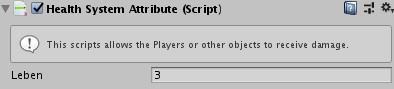
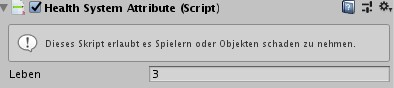
Added getting starded guide (german). Translated more scripts.

diff --git a/Assets/_INTERNAL_/Scripts/Editor/UI/UIScriptInspector.cs b/Assets/_INTERNAL_/Scripts/Editor/UI/UIScriptInspector.cs
@@ -1,6 +1,7 @@
 using UnityEngine;
 using UnityEditor;
 using System.Collections;
+using UnityEditor.Globalization;
 using static UnityEngine.Globalization.Translation;
 
 [CustomEditor(typeof(UIScript))]
@@ -15,18 +16,22 @@ public class UIScriptInspector : InspectorBase
 
 	public override void OnInspectorGUI()
 	{
+		var gameTypeProp = serializedObject.FindProperty(nameof(UIScript.gameType));
+		var numberOfPlayersProp = serializedObject.FindProperty(nameof(UIScript.numberOfPlayers));
+		var scoreToWinProp = serializedObject.FindProperty(nameof(UIScript.scoreToWin));
+
 		GUILayout.Space(10);
 		EditorGUILayout.HelpBox(explanation, MessageType.Info);
 
-		nOfPlayers = serializedObject.FindProperty("numberOfPlayers").intValue;
-		gameType = serializedObject.FindProperty("gameType").intValue;
+		nOfPlayers = numberOfPlayersProp.intValue;
+		gameType = gameTypeProp.intValue;
 
 		nOfPlayers = EditorGUILayout.Popup(_("Number of players"), nOfPlayers, readablePlayerEnum);
 
 		gameType = EditorGUILayout.Popup(_("Game type"), gameType, readableGameTypesEnum);
 		if(gameType == 0) //score game
 		{
-			EditorGUILayout.PropertyField(serializedObject.FindProperty("scoreToWin"));
+			EditorTranslation.PropertyField(scoreToWinProp);
 		}
 
 		if(gameType == 1) //life
@@ -35,8 +40,8 @@ public class UIScriptInspector : InspectorBase
 		}
 
 		//write all the properties back
-		serializedObject.FindProperty("gameType").intValue = gameType;
-		serializedObject.FindProperty("numberOfPlayers").intValue = nOfPlayers;
+		gameTypeProp.intValue = gameType;
+		numberOfPlayersProp.intValue = nOfPlayers;
 
 		if(GUI.changed)
 		{

diff --git a/Assets/_INTERNAL_/Scripts/Editor/DefaultComponents/Rigidbody2DInspector.cs b/Assets/_INTERNAL_/Scripts/Editor/DefaultComponents/Rigidbody2DInspector.cs
@@ -20,7 +20,7 @@ public class Rigidbody2DInspector : Editor
 		//EditorGUILayout.PropertyField(serializedObject.FindProperty("m_BodyType"));
 		//EditorGUILayout.LabelField("Physical Properties", EditorStyles.boldLabel);
 
-		EditorGUILayout.PropertyField(serializedObject.FindProperty("m_Mass"));
+		EditorGUILayout.PropertyField(serializedObject.FindProperty("m_Mass"), new GUIContent(_("Mass")));
 		EditorGUILayout.PropertyField(serializedObject.FindProperty("m_LinearDrag"), new GUIContent(_("Friction")));
 		EditorGUILayout.PropertyField(serializedObject.FindProperty("m_AngularDrag"), new GUIContent(_("Angular Friction")));
 		EditorGUILayout.PropertyField(serializedObject.FindProperty("m_GravityScale"), new GUIContent(_("Gravity")));

diff --git a/Assets/Scripts/Movement/CameraFollow.cs b/Assets/Scripts/Movement/CameraFollow.cs
@@ -4,7 +4,6 @@ using System.Collections;
 [AddComponentMenu("Playground/Movement/Camera Follow")]
 public class CameraFollow : MonoBehaviour
 {
-	[Header("Object to follow")]
 	// This is the object that the camera will follow
 	public Transform target;
 

diff --git a/docs/de/introduction.md b/docs/de/introduction.md
@@ -1,0 +1,286 @@
+# Einführung
+
+![Banner](../_images/introduction/banner.png)
+
+## Willkommen
+
+Egal, ob du ein aufstrebender Entwickler oder ein Mentoren/Lehrer für Spieleentwicklung bist: Willkommen bei Unity!
+
+**Unity Playground** ist ein Framework zum Erstellen von 2D-Spielen auf Physikbasis. Es ist perfekt, um Anfänger Spielentwicklung nahezubringen ohne zu programmieren. Es kann auch verwendet werden, um Game-Design oder Level-Design vorzustellen.
+
+Unity Playground macht Code überflüssig, da es eine Reihe von Komponenten für eine Aufgabe bietet, die einfach zu verwenden und mischen sind. Indem du sie miteinander kombinierst, kannst du physikbasierte 2D-Spiele erstellen, die mehrere Spielgenres umfassen.
+
+![Scripts](../_images/introduction/script-icons.png)
+_Die Icons einiger Skripte_
+
+Viel Spaß mit Unity-Playground!
+
+## Erste Schritte
+
+Unity Playground soll sehr einfach um rein zu kommen und du kannst dich in weniger als 30 Minuten mit den Grundlagen vertraut machen. Du musst nur die Projektstruktur (siehe [Projektstruktur](#projekt-struktur)) und die Konzepte verstehen, die der Playground implementiert sind ([Allgemeine Konzepte](#allgemeine-konzepte)). Dann solltest du wahrscheinlich einen Blick auf die Skripte werfen, beginnend mit denen, die in der Kategorie [Bewegung](de/components/movement.md) gruppiert sind.
+
+Wenn du weitere Informationen zu einem spezifischen Skript brauchst, gehe zu [Alle Skripts](de/components.md).
+
+### Voraussetzungen
+
+* [Unity](https://unity.com/) 2017.4 oder neuer
+* [siehe offizielle Systemanforderungen](https://unity3d.com/unity/system-requirements)
+
+### Unity installieren
+
+> Wenn du dir unsicher beim einrichten bist, lass dir von jemanden helfen der mindestens Englisch versteht und ein Grundverständnis von Computern hat.
+
+1. [Unity Hub](https://store.unity.com/download) herunterladen und installieren
+2. Unity 2017.4 oder neuer installieren (im Unity Hub) _Am besten die neuste_
+
+### Unity Playground installieren
+
+Da wir einen spezielle Version des **Unity Playground**s anbieten können wir diese nicht aus dem, in Unity eingebauten, "Asset Store" installieren.
+
+1. Gehe auf die [Github Seite von NeosIT's Unity Playground](https://github.com/NeosIT/UnityPlayground/) und lade das Projekt als ZIP herunter.
+![Github ZIP](../../../_images/getting-started/github-download.jpg)
+2. Diese .zip-Datei dann an einem beliebigen Ort entpacken (bspw. auf dem Desktop)
+3. Jetzt diesen Ordner mit dem Unity Hub öffnen _Add Button drücken_
+
+!> Falls eine Warnung bezüglich einer Unterschiedlichen Unity Version kommt, kann diese ignoriert werden, solange man eine größere Version hat.
+
+Das Ergebnis sollte ähnlich wie dieses aussehen:
+
+![Ergebnis](../../../_images/getting-started/result.jpg)
+
+### Grundlagen
+
+Bevor du Unity Playground verwendest, sollten du dich bereits mit den Kernkonzepten von Unity vertraut gemacht haben. Eine sehr gute Ressource sind die interaktiven Lernprogramme (Englisch), die auf der Seite _Learn_, im Unity Hub finden kannst. Alternativ können Sie auch den Abschnitt Benutzeroberfläche und Grundlagen in den offiziellen Tutorials durchgehen.
+
+![Unity Hub Learn](../_images/introduction/unity-hub-learn.jpg)
+
+## Mach dein erstes Spiel
+
+Ein Spiel mit Unity Playground zu machen ist super einfach! Lass uns ein sehr einfaches Action-Game machen, in dem ein Raumschiff herumfliegt und versucht, einigen Asteroiden auszuweichen.
+
+### 1. Erstellen des Spielers
+
+Ziehe zunächst ein Raumschiffbild aus dem Ordner `/Images/Spaceships` direkt in das Fenster `Hierarchie`. Da es als `Sprite` importiert wurde, wird Unity ein `GameObject` für Sie erstellen. Dies wird der Spieler sein. Nennen wir das Objekt also _Raumschiff_ und kennzeichnen dieses GameObject oben im `Inspektor`-Fenster kennzeichne es als `Spieler`. Verwende dazu das Dropdown-Menü _Tag_.
+
+![Raumschiff Inspektor](../_images/de/introduction/inspector-ship.jpg)
+
+Lass' uns als nächstes die Schiffsbewegung machen. Wir benötigen zwei Komponenten: [Move](de/components/movement.md#move), um die Interaktivität zu gewährleisten, und einen `Rigidbody2D`, um sicherzustellen, dass das Schiff den Gesetzen der Physik folgt. Ziehe ein [Move](de/components/movement.md#move)-Skript aus dem Ordner `/Scripts/Movement` in den Inspektor des Schiffes.
+
+Wenn das Ziehen ein Problem darstellt, kannst du auch das Dropdown-Menü "Komponente hinzufügen" direkt am unteren Rand des Inspektor-Fensters verwenden und dann [Move](de/components/movement.md#move) eingeben. Das Skript sollte als erstes Ergebnis angezeigt werden.
+
+![Raumschiff Inspektor](../_images/de/introduction/inspector-add-component.jpg)
+
+Du wirst feststellen, dass beim Hinzufügen des [Move](de/components/movement.md#move)-Skripts auch eine `Rigidbody2D`-Komponente hinzugefügt wird. Dies liegt daran, dass Move den `Rigidbody2D` benötigt, um zu funktionieren.
+
+> **Szenen Gizmos**
+>
+> Es kann vorkommen, dass die Symbole für das Playground-Skript sehr groß sind und deine Grafiken verdecken.
+> ![Gizmo Size](../_images/introduction/gizmo-size.png)
+>
+> In diesem Fall kannst du ihre Größe mithilfe der Dropdown "Gizmos" in der Szenenansicht reduzieren. Ziehe den Slider 3D-Symbole nach links, bis die Symbole die richtige Größe haben.
+>
+> ![Scene Gizmos](../_images/de/introduction/scene-gizmos.jpg)
+
+### 2. Anpassen der Physik
+
+Jetzt müssen wir die physikalischen Werte unseres Schiffes einstellen. Bei der `RigidBody2D`-Komponente möchten wir die `Schwerkraft` auf `0` ändern, damit das Schiff nicht herunterfällt. Du kannst auch die bevorzugte Steuerungsmethode (Pfeile oder WASD) auswählen und `Drehung berücksichtigen` aktivieren (wenn das für deine Grafiken sinnvoll ist) und dann die `Richtung` auswählen. Drücke Sie jetzt oben im Editor auf Play (:arrow_forward:), um das Spiel zu testen.
+
+Du wirst wahrscheinlich bemerken, dass das Schiff viel driftet, was die Kontrolle erschwert. Setze die `Reibung` am `Rigidbody2D` auf 10. Wenn du jetzt spielst, wirst du feststellen, dass das Driftverhalten weg ist, aber das Objekt ist auch langsamer, viel langsamer. Dies liegt daran, dass der Kraft, die sich bewegt hat, nun die Reibung entgegenwirkt.
+
+Daher müssen wir auch die Eigenschaft `Geschwindigkeit` in der [Move](de/components/movement.md#move)-Komponente anpassen. Stell' es auf `8` ein und drücke erneut die Play-Taste. Du wirst sehen, dass das Schiff jetzt viel einfacher zu kontrollieren ist. Wir haben gerade unseren ersten Gameplay-Tweak gemacht! Herzlichen Glückwunsch, du bist nun ein Game-Designer!
+
+> **Play-Modus**
+>
+> Wenn du im "Play-Modus" Komponentenwerte bearbeitest, gehen Ihre Änderungen verloren, sobald das Spiel gestoppt wird. Denk' daran, Änderungen nur vorzunehmen, wenn du dich nicht im Play-Modus befinden! Du solltest Änderungen im Play-Modus nur vornehmen, wenn du temporäre Werte testen willst, bei denen du kein Problem hast sie zu verlieren.
+
+### 3. Hinzufügen von Hindernissen und Kollisionen
+
+Wir haben etwas Spielbares, aber es ist nicht wirklich ein Spiel. Fügen wir einige Hindernisse hinzu, durch die das Schiff navigieren muss, indem Sie ein Asteroiden-Sprite aus dem Ordner `/Images` ziehen. Wie zuvor wird Unity ein GameObject für uns erstellen.
+
+Wir müssen zwei Komponenten hinzufügen: `Rigidbody2D` und `PolygonCollider2D`. Der `PolygonCollider2D` bewirkt, dass dieses Objekt andere Objekte kollidieren (berühren) kann. Wir müssen diese Komponente auch zum Schiff hinzufügen.
+
+![Scene Ship Astroid](../_images/introduction/scene-ship-astroid.png)
+
+Versuche' nach dem Hinzufügen von Collidern die Play-Taste zu drücken. Du wirst bemerken, dass das Schiff den Asteroiden jetzt herumschieben kann. Vergiss nicht, die `Schwerkraft` des Asteroiden auf `0` zu setzen, da er ansonsten herunter fällt! Sie können auch die Parameter des Asteroiden ändern: `Reibung`, `Drehungsreibung` und `Masse`, damit er sich so verhält, wie du es möchtest. Stell' die Masse auf `10` ein, damit das Objekt schwerer wird und nicht wegfliegt, wenn es dein Schiff berühren. Ein so großer Asteroid muss sehr schwer sein!
+
+Machen wir diesen Asteroiden jetzt zu einer Bedrohung. Du müsst dem Asteroiden ein [ModifyHealthAttribute](de/components/attributes.md#modifyhealthattribute)-Skript hinzufügen, das sich unter `/Scripts/Attributes` finden lässt.
+
+![Astroid Modify Health](../_images/de/introduction/astroid-modify-health.jpg)
+
+Dann muss Schiff in der Lage sein, diesen Schaden zu erkennen. Dazu gibt es ein weiteres Skript namens [HealthSystemAttribute](de/components/attributes.md#healthsystemattribute) (immer noch unter `/Scripts/Attributes`), das wir zum Raumschiff hinzufügen müssen.
+
+![Schiff HealthSystemAttribute](../_images/de/components/attributes/gui-health-system-attribute.jpg)
+
+Dies gibt dem Spieler nicht nur Gesundheit, sondern ermöglicht es uns, das Start-Leben festzulegen. Mach' den Asteroiden zum Prefab und duplizieren Sie ihn (Tastenkürzel: `STRG` + `D` für Windows, `CMD` + `D` für Mac), um ein kleines Asteroidenfeld um das Schiff zu erstellen.
+
+> **Prefabs**
+>
+> Bevor du den Asteroiden duplizierst, solltest du ihn wahrscheinlich in ein Prefab umwandeln, damit du zu einem späteren Zeitpunkt alle Asteroiden auf einmal bearbeiten kannst.
+>
+> Wenn du nicht wissen, was ein Prefab ist, und mehr darüber erfahren möchtest, lese im [Handbuch](https://docs.unity3d.com/Manual/Prefabs.html) (Englisch) nach oder schau' dir ein kurzes [Video-Tutorial](https://learn.unity.com/tutorial/essential-unity-concepts) (Englisch - Alternativen lassen sich auf YouTube problemlos finden) an.
+>
+> Prefabs sind ein grundlegendes Konzept in Unity, wenn du ein großes Spiel entwickelst oder im Team arbeitest. Du kannst sie vorerst auch sein lassen und dich auf dein erstes Spiel konzentrieren. Später kannst du immer noch darauf zurückgreifen.
+
+### 4. Hinzufügen einer Benutzeroberfläche
+
+Wir haben bist jetzt kein Feedback, wenn der Spieler getroffen wird. Fügen wir also eine Benutzeroberfläche hinzu, um die Gesundheit des Players zu visualisieren. Zieh' das UserInterface-Prefab aus dem Ordner `/Prefabs` in die Szene. Wenn du dir das `Spiel`-Fenster anguckst siehst du Score und Health, welche automatisch eingeblendet werden.
+
+Wenn du das Spiel jetzt spielst, wirst du feststellen, dass das berühren eines Asteroiden einen Punkt Gesundheit abzieht! Und wenn du zu viele Treffer abkriegst, ist das Spiel vorbei!
+
+Nachdem du ein vollständiges Asteroidenfeld hast, ist es an der Zeit, erneut zu testen, ob du tatsächlich darin navigieren kannst, ohne zu viele Treffer zu abzukriegen. Das Spiel muss schwierig sein, aber nicht zu schwierig! Indem du die Asteroiden neu positionierst und das Spiel testest, arbeitest du jetzt im Grunde an der "Game-Balance" und gleichzeitig auch am Level-Design.
+
+### 5. Ein Ziel hinzufügen
+
+Worum geht es also in diesem Spiel? Nehmen wir an, wir möchten, dass das Schiff einige Sterne sammelt, ohne in die Asteroiden zu krachen. Sobald alle Sterne gesammelt sind, ist das Spiel gewonnen.
+
+Füge einen Stern aus dem Ordner `/Images` hinzu, indem du ihn in die Szene ziehst. Füge ein [Collectable](de/components/attributes.md#collectableattribute)-Skript aus dem Ordner `/Scripts/Attribute` hinzu. Dies macht den Stern zu einem Sammelobjekt und bringt dem Spieler einen Punkt ein.
+
+Aber wie erkennen wir, ob der Stern gesammelt wurde? Wir werden wieder Kollisionen verwenden. Füge ein `PolygonCollider2D` hinzu, aber dieses Mal möchten wir es zu einem Auslöser machen. Aktivieren Sie daher die Eigenschaft `Ist Auslöser`.
+
+> **Auslöser**
+>
+> Auslöser (eng. Trigger) sind eine besondere Art von Collidern. Sie machen ein Objekt immateriell, sodass es anscheinend keine anderen Objekte berühren kann. Unity erkennt jedoch, wann sich die beiden Objekte berühren, sodass du Aktionen ausführen kannst.
+>
+> Zum Beispiel sind Auslöser sehr nützlich, um festzustellen, ob ein Spieler das Ende des Levels erreicht hat. Platziere einen direkt vor dem Ausgangs- oder Endpunkt. Wenn der Player diese berührt, wird eine "Du hast gewonnen"-Nachricht angezeigt. Der Spieler sieht nichts, aber der Auslöser gibt dir (dem Entwickler) die Logik, um die Gewinnbedingung zu ermitteln.
+
+### 6. Gewinnbedingung
+
+Wenn du das Spiel jetzt spielst, wirst feststellen, dass der Stern vom Schiff eingesammelt wird. Zu diesem Zeitpunkt möchtest du den Stern möglicherweise auch zu einem Prefab machen (siehe Hinweis zu Prefabs oben) und ihn dann so oft duplizieren, wie du es für erforderlich hältst. Nehmen wir an, wir haben 5 in der Szene. Jetzt wollen wir sie so verteilen, dass einige leicht zu bekommen sind, während die weiteren schwieriger sind. Auf diese Weise schaffen wir auch eine zunehmende Schwierigkeit für unser kleines Spiel.
+
+Schließlich musst du das UI-GameObject auswählen und im UI-Skript sicherstellen, dass der `Spieltyp` auf `Punkte` gesetzt ist und der `Erforderliche Punkte` 5 ist. Wenn dies nicht mit der Anzahl der Sterne im Spiel übereinstimmt, ist es unmöglich zu gewinnen!
+
+Drück' erneut auf "Play" und prüf', ob du das Spiel gewinnen kannst. Wenn du alle 5 Sterne bekommst, solltest du eine Nachricht mit der Aufschrift _Spieler 1 gewinnt!_ Erhalten.
+
+Glückwunsch: Du hast gerade dein erstes Spiel gemacht. Sehr gut! Pass' die Einstellungen so lange an, bis du mit den Steuerelementen, dem Schwierigkeitsgrad und dem Level-Layout zufrieden sind.
+
+### Nächste Schritte
+
+Nachdem du dich jetzt mit Unity und dem Unity Playground vertraut gemacht hast, kannst du fortfahren und komplexere Spiele damit erstellen. Als ersten Schritt kannst du einen Blick auf die [allgemeinen Konzepte](#allgemeine-konzepte) von Unity Playground werfen, um sie besser zu verstehen.
+
+Denken Sie daran: Der Unity Playground soll flexibel sein. Überlege dir deine eigenen Spielgenres oder kopiere ein vorhandenes Spiel. Alles ist in erlaubt.
+
+> Hinweis
+>
+> Wenn du lernst Spiele zu entwickeln, ist es normalerweise eine gute Idee, das Gameplay alter Spiele aus den 80er Jahren (wie Asteroids, Arkanoid, Space Invaders, Frogger und viele andere) zu kopieren, weil sie sehr einfach waren. Wenn du dich verbesserst, kannst du mehr und mehr Details hinzufügen und die Interaktion verfeinern.
+
+Wenn du Inspiration benötigst, öffne den Ordner `Examples` und starte eines der Spiele. Untersuche die GameObjects und sieh dir an, wie wir diese erstellt haben. Versuch' dann etwas Ähnliches zu erstellen.
+
+## Allgemeine Konzepte
+
+In diesem Abschnitt wirst du sehr schnell einige grundlegende Konzepte von Unity Playground behandeln. Wenn du dich noch nicht mit Unity oder Unity Playground auskennst, kannst du diese Konzepte benutzen um komplexere Spiele erstellen.
+
+### Info und Warnungen
+
+Alle benutzerdefinierten Skripte in Unity Playground verfügen über ein kleines Infofeld oben, in dem die Funktionsweise des Skripts in wenigen Worten erläutert wird.
+
+![GUI Infobox](../_images/de/introduction/info-and-warning.jpg)
+
+In ähnlicher Weise haben viele Skripte mehrere Warnmeldungen (die mit dem gelben Warnschild), die angezeigt werden, wenn beim Setup etwas nicht stimmt. Halte nach diesen Ausschau, sie geben dir möglicherweise einen guten Hinweis darauf, warum ein Skript nicht funktioniert.
+
+### Kollisionen und Auslöser
+
+Fast alle Logikskripte in Unity Playground verwenden Kollisionen, um Gameplay zu erzeugen. Das bedeutet, dass Dinge passieren, wenn sich zwei Objekte mit Collidern berühren oder wenn ein Objekt mit einem Collider in ein anderes Objekt eintritt (das ebenfalls einen Collider hat, aber als Auslöser markiert ist).
+
+So kannst du zum Beispiel Schaden erleiden, der bei Kollisionen mit einem Feind entsteht, ein Level gewinnen, wenn du ein Objekt berührst, Münzen und Power-Ups einsammeln, indem du darauf zu läufts, oder eine Tür öffnen, indem du den Charakter reinläuft - vorausgesetzt, du hast den richtigen Schlüssel!
+Ebenso kannst du eine Dialogzeile auslösen, wenn dein Charakter einen Bereich vor einem anderen Charakter betritt (wie in der Roguelike-Beispielszene).
+
+Wenn etwas nicht wie gewünscht funktioniert, fragen dich: Habe ich die entsprechenden Collider hinzugefügt?
+
+### Tags
+
+Mithilfe von Tags können wir Objekte in Kategorien unterteilen, sodass Skripte nur dann Aktionen ausführen können, wenn sie die richtigen Objekte berühren. Ohne Tags gibt es keine Möglichkeit, zwischen Objekten zu unterscheiden.
+
+Wie bei Kollisionen hängen viele Skripte von dem Objekt ab, das mit einem Tag versehen werden soll. Wenn du dir nicht sicher bist und dein Skript nicht den Anforderungen entspricht, lies dir die [jeweiligen Skripte](de/components.md) durch, um zu überprüfen, ob du ein wichtiges Tag vergessen hast.
+
+### Eigene Grafiken importieren
+
+Unity Playground enthält viele tolle Sprites zum Spielen, die sich im Ordner `Images` befinden. Es steht dir jedoch frei, alle 2D-Grafiken zu verwenden, die du findest, oder deine eigenen zu erstellen!
+
+Um ein Bild auf in Playground zu verwenden, musst du es nur irgendwo in den Ordner `Assets` ziehen. Das Bild wird als Sprite importiert und kann dann verwendet werden. Durch einfaches Ziehen in die Szene oder in das Hierarchie-Fenster wird ein neues GameObject erstellt, und du kannst es dann im Spiel verwenden.
+
+Denk' daran, dass Bilder, die nicht quadratisch sind, Transparenz benötigen, um gut auszusehen. Andernfalls wird ein weißer Hintergrund angezeigt. Gute Formate, die Transparenz ermöglichen, sind `.png` oder `.gif`, während `.jpg` keine Transparenz enthält. Denk' auch daran, dass Unity keine animierten GIFs wiedergibt.
+
+## Fortgeschrittene Konzepte
+
+Bist du ein Mentor? Dieser Abschnitt ist ein Muss für Sie! Auch für fortgeschrittene Benutzer empfohlen, die den Spielplatz besser verstehen möchten.
+
+### Übersicht
+
+Auf den ersten Blick ist es möglicherweise schwer zu verstehen, wie viele Skripte sich in Playground befinden. Für diesen Fall gibt es die [Übersicht](de/components.md) über alle Skripts. Sie sind in Kategorien (Bewegung, Gameplay usw.) unterteilt.
+
+Es empfiehlt sich diese Seite dann, bei einem Workshop für Anfänger, auszudrucken. Die Seite ist nicht wirklich Drucker freundlich, da sie in Markdown geschrieben ist, damit sie einfacher zu warten und problemlos im Internet angezeigt werden kann. Mit Markdown-To-Word Tools wäre es möglich die Seite zu einem Word Dokument zu machen, anzupassen, als PDF zu exportieren und dann auszudrucken.
+
+### Herausforderungen
+
+Zusätzlich gibt es für die "Schnellen" oder die besonders begabte auch die Möglichkeit [Herausforderungen](de/components) zu erfüllen.
+
+### Projektstruktur
+
+Um das Projekt in einem Workshop zu verwenden, kannst du es entweder kostenlos von [Github](https://github.com/NeosIT/UnityPlayground) herunterladen lassen (siehe [Tutorial](#unity-playground-installieren)) oder, wenn der Internetzugang ein Problem darstellt, die Ordner "Assets" und "ProjectSettings" manuell an die Schüler verteilen.
+
+### Assets-Ordner
+
+`Images` und `Particles` Ordner enthalten grafische Elemente, die als Charaktere, Feinde oder zum Erstellen von Szenen verwendet werden können.
+
+Das Herzstück von Playground, die Skripte, befindet sich im Ordner `Scripts`, der nach Kategorien geordnet ist. Die meisten von ihnen sollten sofort funktionieren, obwohl für einige Objekte eine bestimmte Tag-Kennzeichnung erforderlich ist (weitere Informationen hierzu findest du im Abschnitt [Tags](#tags)).
+
+Es gibt auch einen Ordner mit dem Namen `Examples`, in dem du eine Handvoll kleiner Spiele findest, die bereits erstellt wurden. Du kannst sie als Lernmaterial oder als Ausgangspunkt zum Anpassen verwenden.
+
+Das Projekt enthält einen speziellen Ordner mit dem Namen `_INTERNAL_`. Wie der Name schon sagt, sollte es dieser nicht angefasst werden, es sei denn, du möchtest sich mit dem Innenleben von Playground anlegen. Es enthält Basisskripte, Schriftarten, Gizmos und andere Dinge, die den Schülern eigentlich egal sein sollten. Es muss jedoch im Projekt sein, damit Playground ordnungsgemäß funktioniert.
+
+Dieser Abschnitt befasst sich etwas tiefergehend mit einigen Teilen von Playground, um das Innenleben besser zu verstehen. Empfohlen für Mentoren, die Schüler unterstützen und Probleme in ihren Spielen beheben müssen.
+
+### Tags (intern)
+
+Tags werden von einigen Skripten verwendet, um Objekte zu filtern und zu entscheiden, wann ihre Effekte erzeugt werden sollen. Einige Skripte filtern die `OnCollisionEnter2D` oder `OnTriggerEnter2D` Events von Objekten, während andere (wie [HealthSystemAttribute](de/components/attributes.md#healthsystemattribute)) sich unterschiedlich verhalten, je nachdem, ob das Objekt als `Player` markiert ist oder nicht.
+
+Wenn du den Ordner `ProjectSettings` zu Beginn importierst, sind bereits einige zusätzliche Tags definiert. Speziell:
+
+* `Player` und `Player2` müssen in Playground verwendet werden, damit das UI, Spieler beschädigen, Punkte zu erzielen usw. funktionieren
+* Obwohl `Enemy` derzeit in keinem Skript verwendet wird, ist es hilfreich, Feinde zu definieren, auf die die Auswirkungen von Kugeln und Waffen angewendet werden sollen.
+* `Bullet` für Geschosse/Projektile.
+* `Ground` wird verwendet, um zu überprüfen, was Boden ist, wenn der Spieler springt.
+
+Mit Ausnahme der `Player` Tags kannst du in vielen Skripten definieren, nach welchem Tag gesucht werden soll. Das [Jump](de/components/movement.md#jump)-Skript will zum Beispiel wissen, was als Boden bezeichnet wird, sodass du nicht unbedingt das `Ground` Tag auswählen musst. Diese kommen nur als Empfehlung mit in diesem Projekt.
+
+Du kannst Tags in [Condition](de/components/conditions.md)-Skripten filtern, sodass nur dann etwas passiert, wenn sie mit Objekten kollidieren, die auf eine bestimmte Weise markiert sind usw. Die Tag-Liste wird automatisch aktualisiert und zeigt die gesamte Liste der Tags an, sodass keine Tippfehler möglich sind.
+
+### Benutzeroberfläche (UserInterface)
+
+Die Benutzeroberfläche ist in einem Prefab implementiert, der im `Prefabs` Ordner enthalten ist. Wenn du einfach das `UserInterface` prefab in die Szene ziehst, werden automatisch die Gesundheit und die Punktzahl für Spieler 1 angezeigt. Du kannst jedoch auch festlegen, dass das Spiel für 2 Spieler gilt. Je nach Spielmodus wird dann die Punktzahl oder die Gesundheit für beide Spieler angezeigt.
+
+> Hinweis: Der Text wird erst zu Laufzeit übersetzt.
+
+![UserInteraface](../_images/introduction/user-interface.png)
+
+Das `UserInterface` ermöglicht es auch, die Art des Spiels zwischen Score, Life und Endless zu definieren. Je nach Zustand werden die Bildschirme "Game Over" und "Du gewinnst" angezeigt:
+
+* Wenn der Spieler im Punktemodus die gewählte Punktzahl erreicht, wird der Gewonnen-Bildschirm angezeigt. Wenn zwei Spieler anwesend sind, zeigt die Benutzeroberfläche nur Punktzahlen an und die erste Person, die die Punktzahl erreicht, gewinnt.
+* Wenn der Spieler im Lebensmodus 0 Lebenspunkte erreicht, wird "Game Over" angezeigt. Bei zwei Spielern wird der Gesundheitszustand beider Spieler angezeigt. Es gibt keine Möglichkeit zu gewinnen.
+* Im Endlos-Modus wird kein kein "Game Over" des Spiels angezeigt und es gibt keine Möglichkeit, das Spiel zu gewinnen oder zu verlieren.
+
+#### Eigene Spielmodi
+
+Bei Verwendung von [Condition](de/components/conditions.md)-Skripts kannst du die `GameWon`- und `GameOver`-Funktionen des `UIScript` mit einem UnityEvent verbinden. Auf diese Weise kannst du benutzerdefinierte Sieg- und Niederlagebedingungen erstellen, indem du Kollisionen und andere Ereignisse nutzt.
+
+Ebenso kannst du auf die Funktionen `AddOnePoint` und `RemoveOnePoint` aufrufen, um dasselbe mit Punkten zu tun.
+
+## Eigene Inspektoren
+
+Unity Playground verwendet häufig eigene Inspektoren, sowohl für die eigenen Skripte des Playgrounds ([Move](de/components/movement.md#move), [Jump](de/components/movement.md#jump) usw.) als auch für die Standard-Unity-Komponenten (`Transform`, `Collider`, `SpriteRenderer` etc.). Ziel ist es, die Unity-Benutzeroberfläche etwas weniger komplex zu gestalten, um neuen Benutzern Unity so angenehm wie möglich zu gestalten.
+
+Aus diesem Grund wurden auch einige Variablennamen (im Englischen) geändert. Beispielsweise wurde `Drag` im `Rigidbody2D` zu `Friction` umbenannt.
+
+### Playground deaktivieren
+
+Du kannst die benutzerdefinierten Inspektoren in der oberen Menüleiste ein- und ausschalten. Auf diese Weise kannst du visualisieren, was die Playground-Skripte verbergen. Du kannst jederzeit Änderungen vornehmen und anschließend Playground wieder einschalten. Da Playground nur Inspektoren anpasst, funktioniert es weiterhin einwandfrei.
+
+![Playground deaktivieren](../_images/de/introduction/deactivate-playground.jpg)
+
+Dieser Trick wird Mentoren empfohlen, die vorübergehend Änderungen an Eigenschaften vornehmen müssen, die von Playground ausgeblendet werden (z. B. Bearbeiten der Form eines Colliders eines beliebigen Typs).
+
+## Tilemaps
+
+In den Grafik-Assets ist eine Reihe von Sprites (Gras, Kopfsteinpflaster, Holz) enthalten, die zum Erstellen der Beispielspiele verwendet wurden und mit denen du mithilfe der Tilemap-Funktion von Unity deine eigenen Level erstellen kannst.
+
+Wenn du mehr über Tilemap erfahren möchtest, findest du eine ausführliche Anleitung im [Unity-Handbuch](https://docs.unity3d.com/Manual/class-Tilemap.html) (Englisch). Die [Learn-Website](https://learn.unity.com) bietet außerdem viele gute Lernprogramme oder du schaust in das Tutorial [Painting a Level section](https://learn.unity.com/tutorial/2d-game-kit-walkthrough) vom 2D Gamekit Video.

diff --git a/docs/de/developers.md b/docs/de/developers.md
@@ -19,9 +19,9 @@ sh setup.sh
 npm install --global docsify-cli
 ```
 
-### Dokumentation bauen
+### Dokumentation verwenden
 
-Die docs können via Docsify zu HTML umgewandelt werden (und im Browser begutachtet werden).
+Docsify kommt mit einem integrierten HTTP Server der die `index.html` ausliefert welche dann die Dokumentation darstellt.
 
 ```bash
 docsify serve

diff --git a/docs/de/_sidebar.md b/docs/de/_sidebar.md
@@ -1,7 +1,6 @@
 * [Startseite](de/)
-* [Erste Schritte](de/getting-started.md)
-* [Übersicht](de/overview.md)
-* Alle Skripts
+* [Einführung](de/introduction.md)
+* [Alle Skripts](de/components.md)
   * [Bewegung](de/components/movement.md)
   * [Gameplay](de/components/gameplay.md)
   * [Attribute](de/components/attributes.md)

diff --git a/docs/de/components.md b/docs/de/components.md
@@ -1,4 +1,4 @@
-# Übersicht
+# Alle Skripts
 
 > Klicke auf die Bilder um eine ausführliche Erklärung zu erhalten.
 
